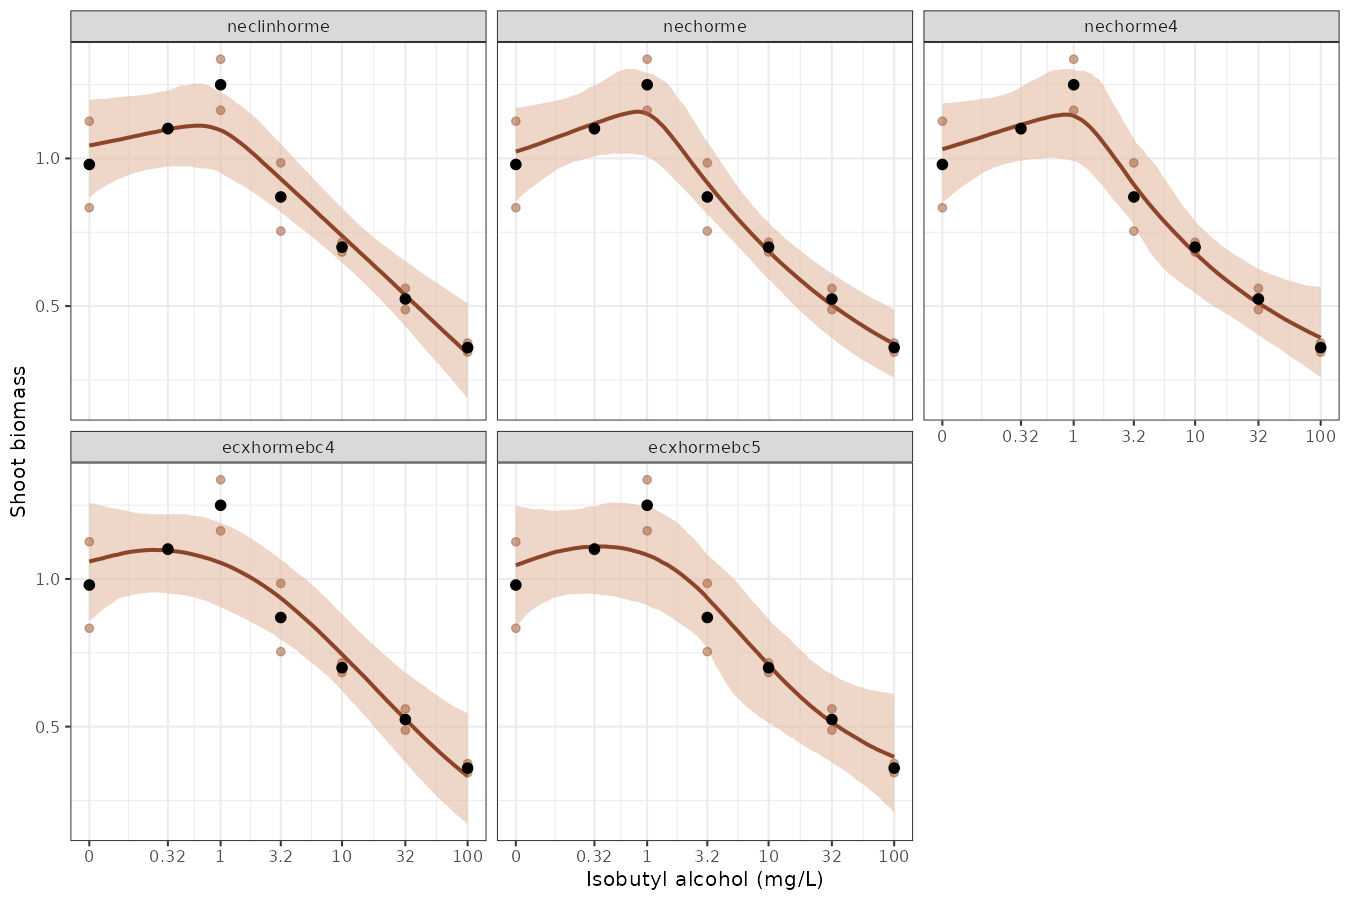
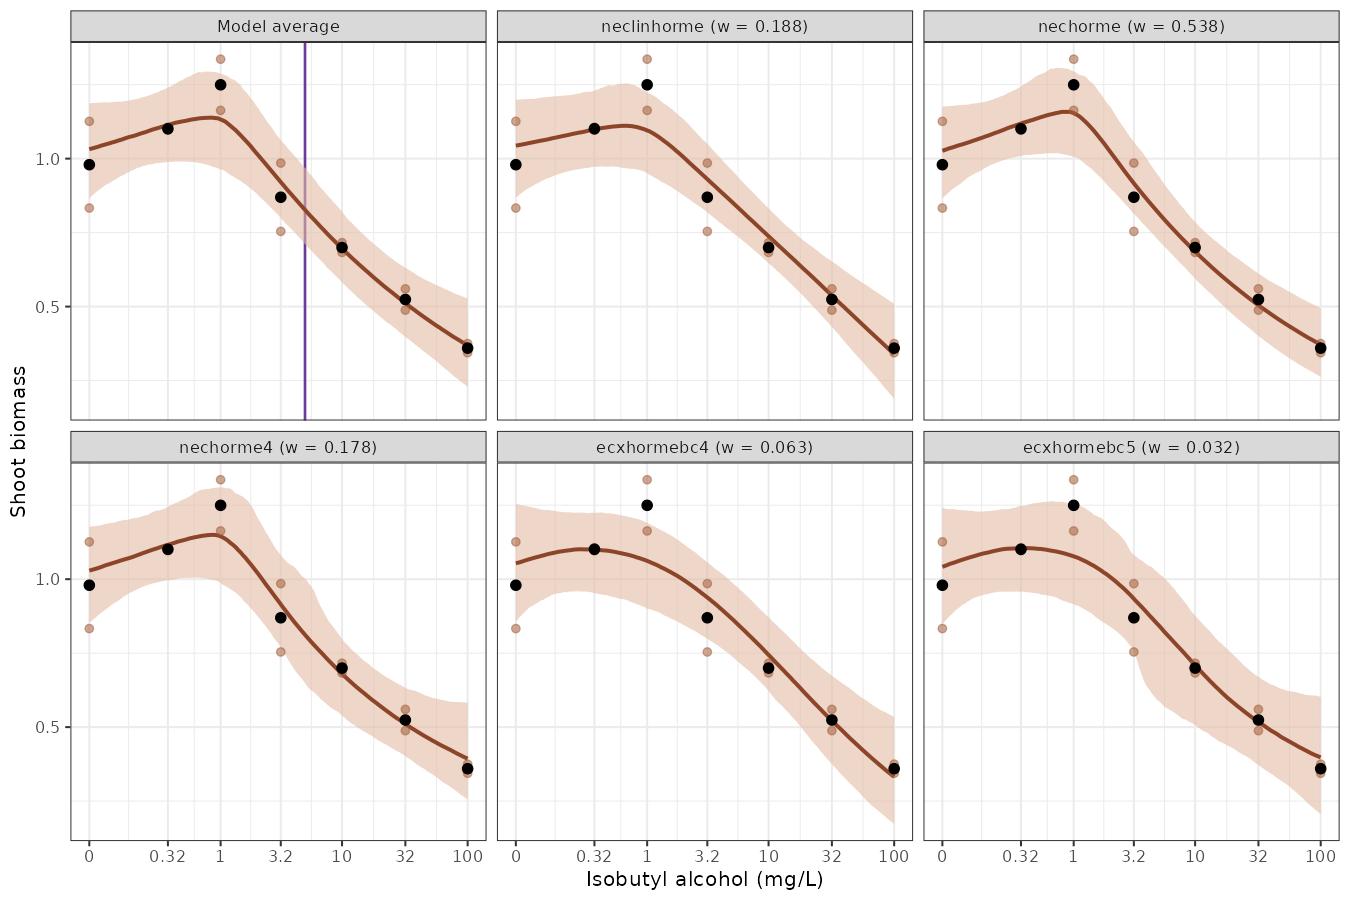
Report model weights and ECNSEC for hormesis case studies

diff --git a/README.md b/README.md
@@ -8,9 +8,9 @@ This public research compendium contains the manuscript draft, exploratory desig
 - `analysis/hormesis_simulation.R`: Gaussian plug-in design simulation. It does not test Bayesian NSEC coverage.
 - `analysis/hormesis_negri.R`: local import of the Negri et al. marine workbook.
 - `analysis/hormesis_case_fits.R`: `bayesnec` fits and saved fitted objects.
-- `analysis/hormesis_fit_plots.R`: case-study figures and concentration-level checks from saved fits.
-- `data/`: lettuce observations and simulation summaries.
-- `figures/`: case-study figures generated from the saved fits.
+- `analysis/hormesis_fit_plots.R`: candidate and model-averaged curves, model weights, ECNSEC values and concentration-level checks from saved fits.
+- `data/`: lettuce observations, simulation summaries and case-study estimate summaries.
+- `figures/`: candidate and model-averaged case-study figures generated from the saved fits.
 
 ## Reproduction
 
